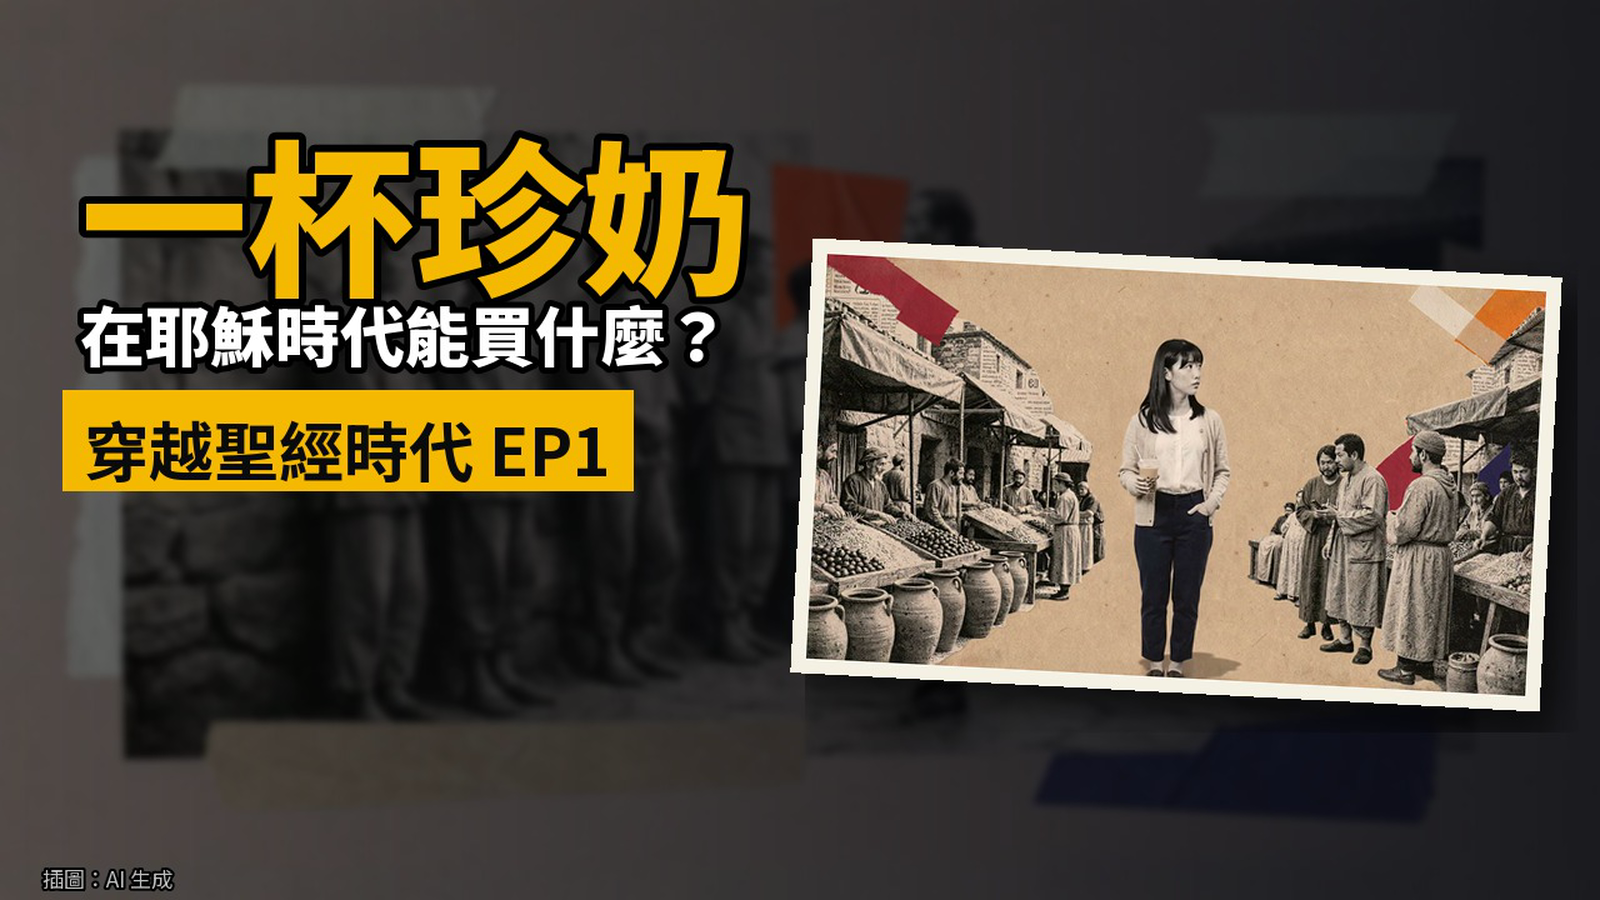
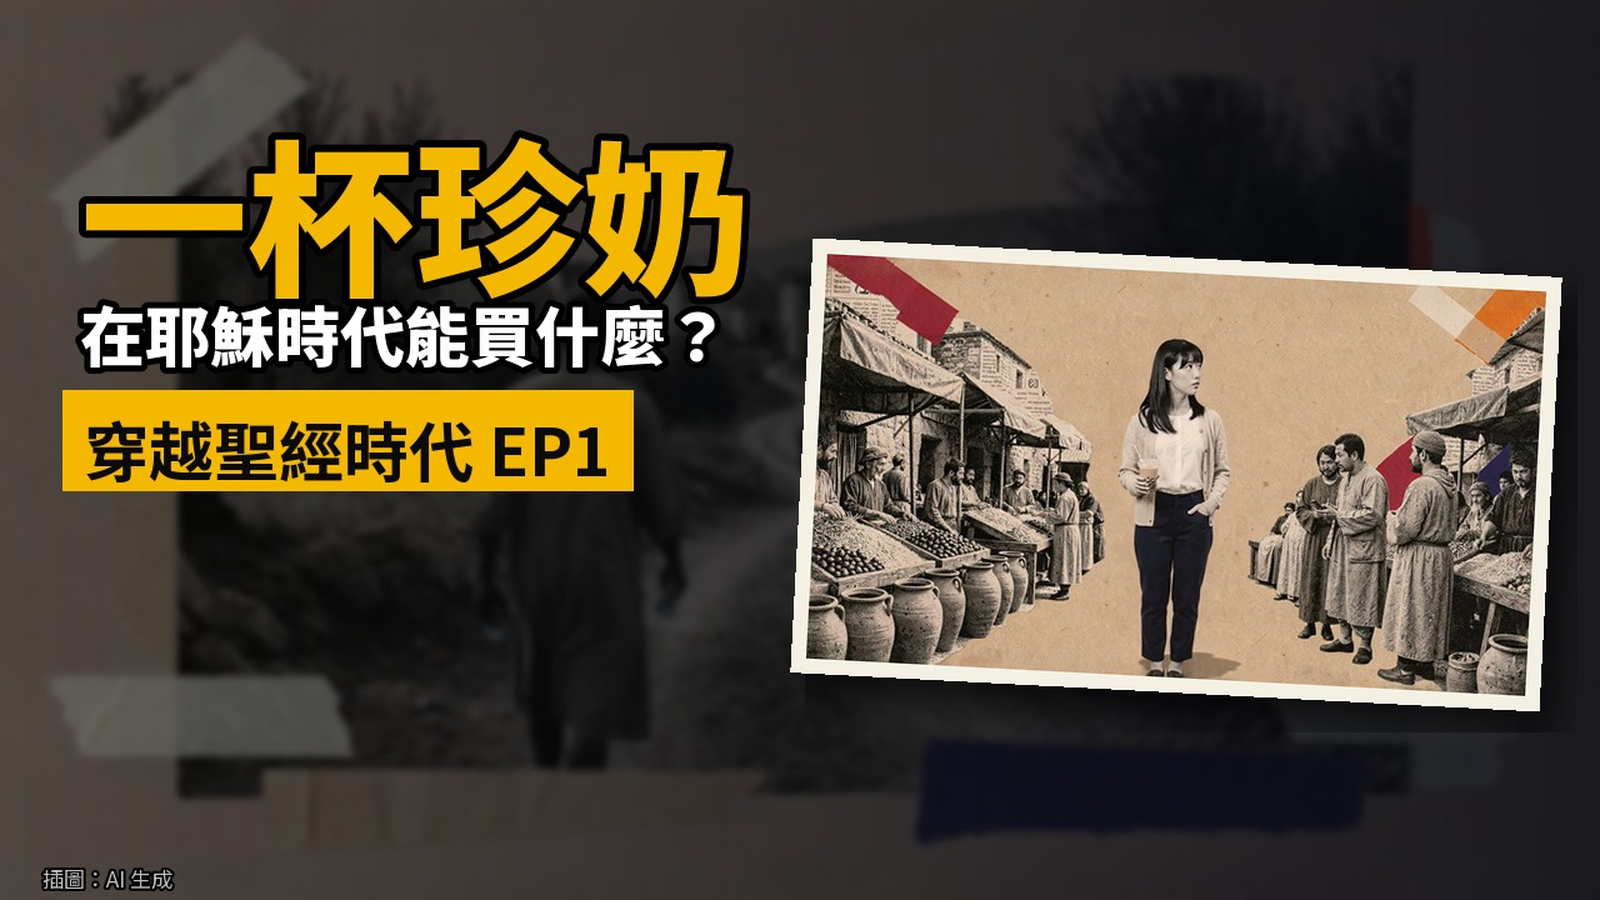
穿越聖經時代 EP1：拿掉清晨市場等工的配圖，封面換成新縮圖

diff --git a/src/content/blog/20261110-bible-times-ep1-bubble-tea-denarius.md b/src/content/blog/20261110-bible-times-ep1-bubble-tea-denarius.md
@@ -47,8 +47,6 @@ shortCode: "1r0fnu"
 
 那時候沒有 104，也沒有打工 App。想找零工，就是一早到市場站著，等老闆來挑人。比喻裡的主人從清晨一路找到下午，還看見「市上還有閒站的人」（馬太福音 20:3）。
 
-![清晨在市場等工的工人](./assets/2026-11-10-bible-times-03.jpg)*清晨的市場，工人靠牆等老闆來挑人。情境重建，AI 生成*
-
 這些人是誰？研究這段比喻的學者認為，故事發生在葡萄收成季，正是最缺人手的時候；來排隊的，有些可能沒有自己的地，也有些是家裡有小塊田、想趁旺季多賺點現金的小農 [3]。不管是哪一種，日薪工人都屬於當時最沒保障的一群：今天沒被挑中，今天就沒收入，也沒有勞保可以申請。
 
 所以那些站到下午還沒人要的人，心情大概不是「今天放假真爽」，比較像「再沒人來，今晚的飯就不知道在哪了」。
